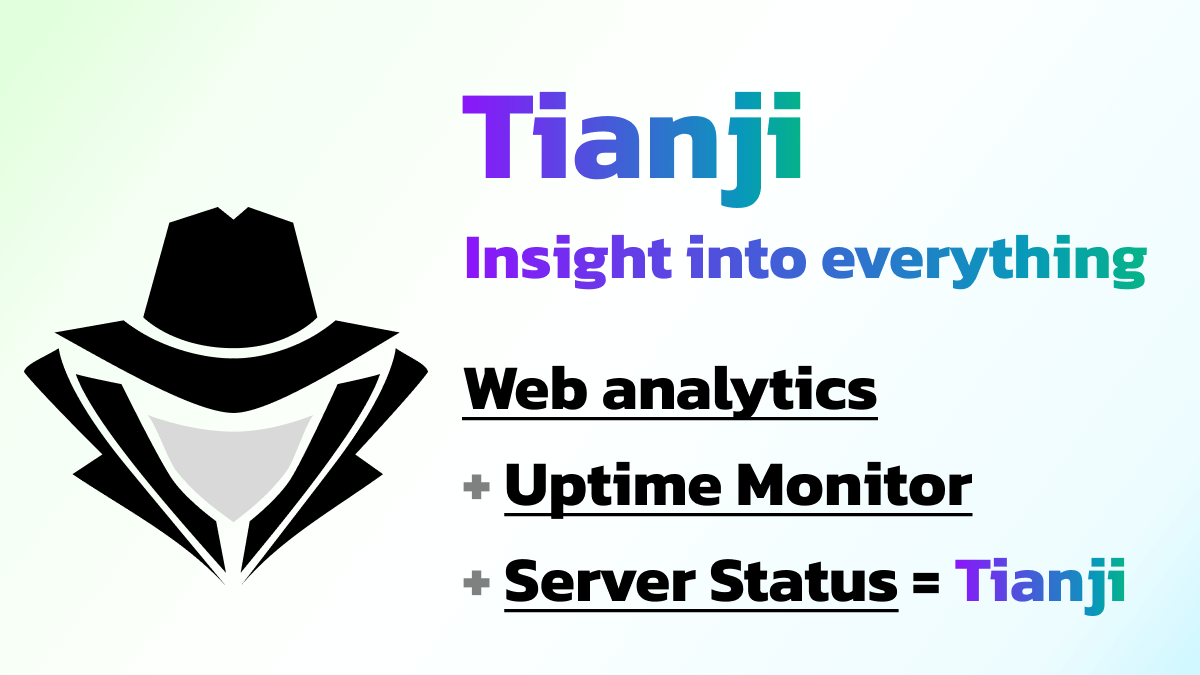
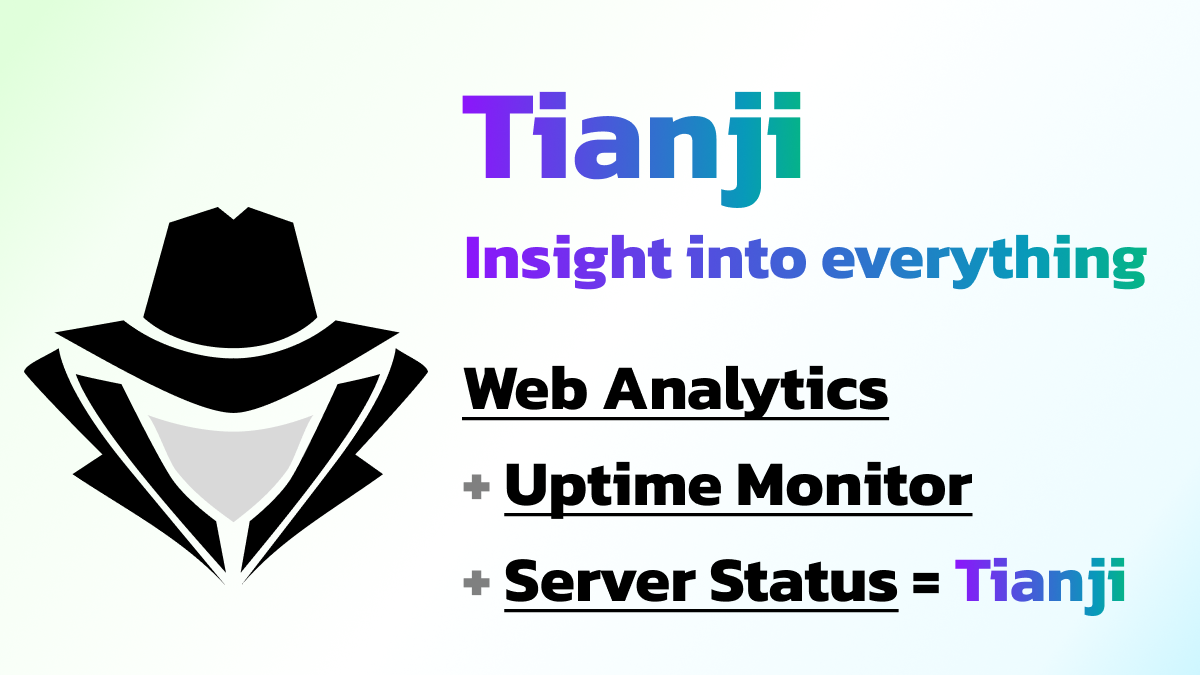
docs: upcase tianji slogan

Changed region(s): [[0.4933, 0.5289, 0.74, 0.6222]]

diff --git a/website/src/pages/index.tsx b/website/src/pages/index.tsx
@@ -24,7 +24,7 @@ function HomepageHeader() {
         </p>
         <div className="text-xl">
           <span className="text-gradient font-bold">Tianji</span> ={' '}
-          <span className="underline font-semibold">Website analytics</span> +{' '}
+          <span className="underline font-semibold">Website Analytics</span> +{' '}
           <span className="underline font-semibold">Uptime Monitor</span> +{' '}
           <span className="underline font-semibold">Server Status</span>
         </div>
